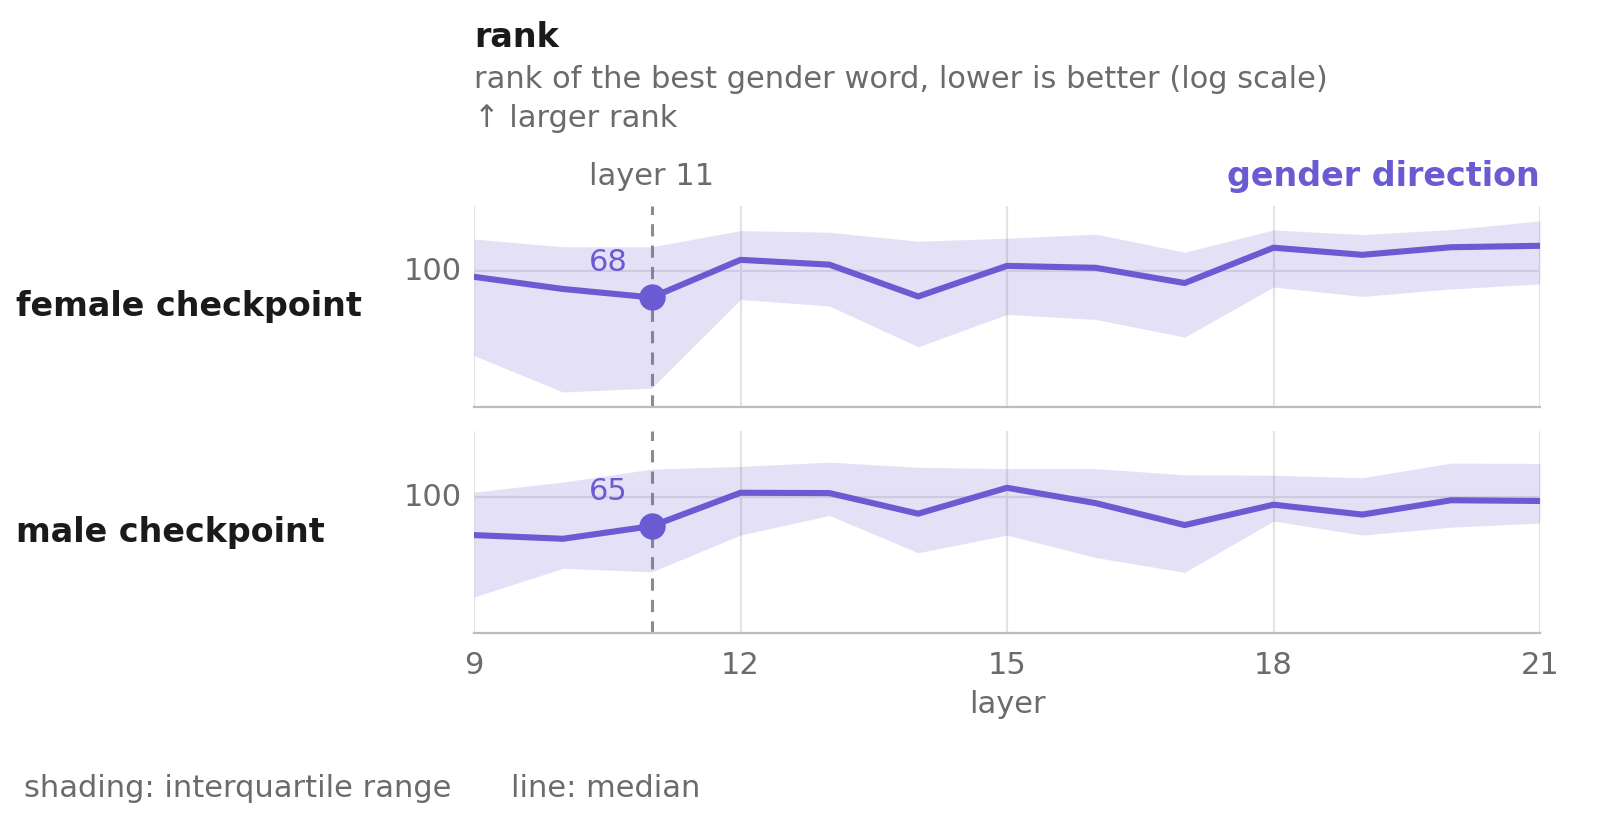
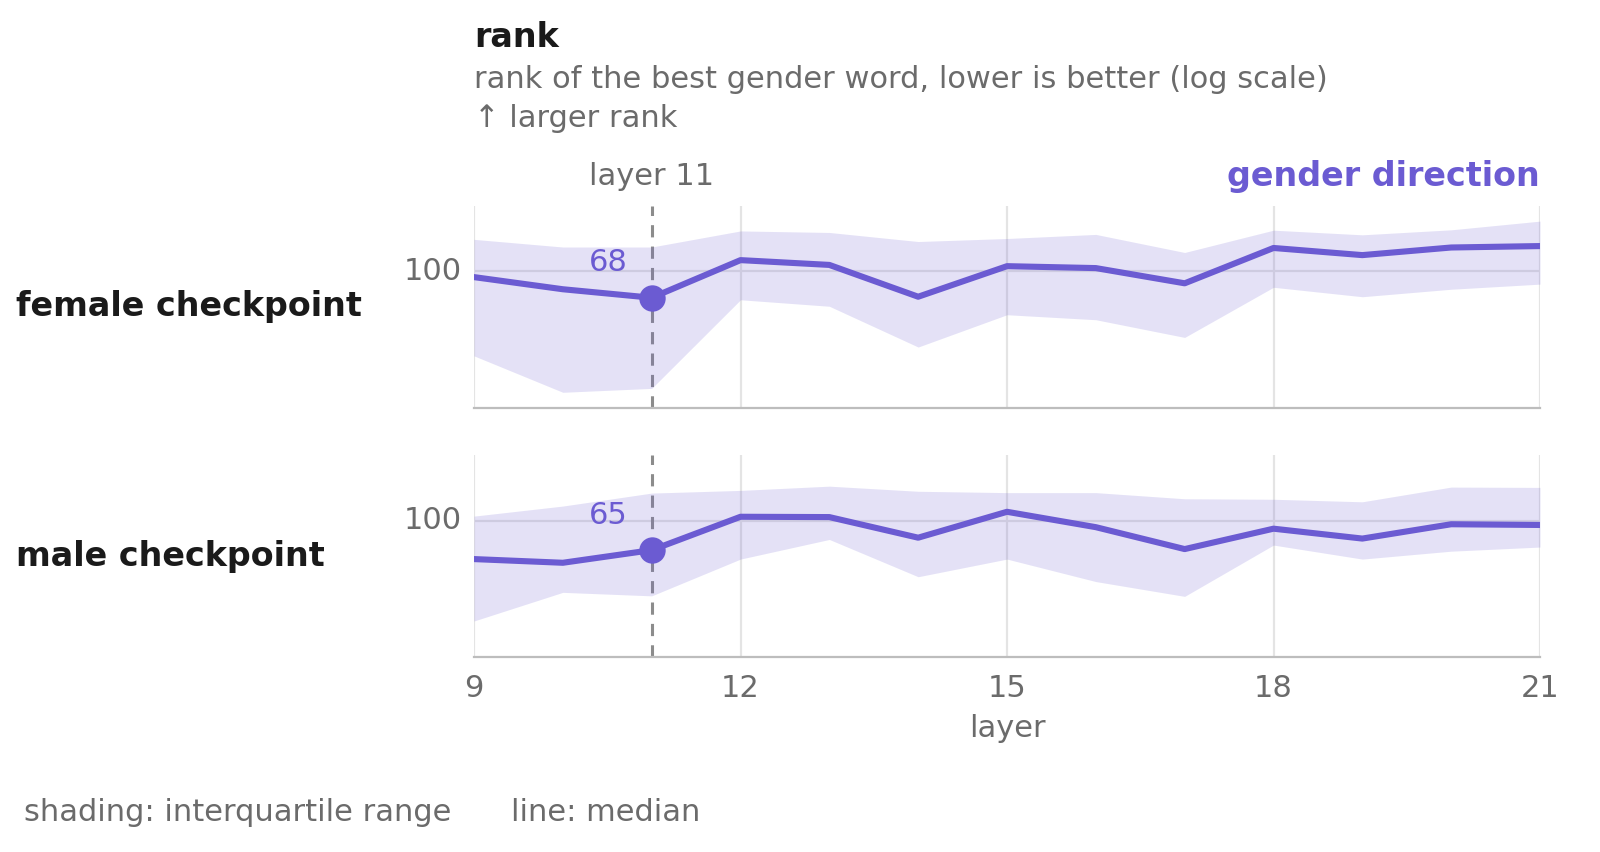
Pin styles-plot v0.1.10
Changed PNGs: the five figures with stacked panels (layer_rank_sweep,
gender_word_rank_sweep, bimodal_breakdown_combined, projection_direct_vs_standard,
projection_separability_layer11_direct) get a tick label's height between
panels. No number or label changed; every other PNG is byte-identical.
styles-plot check and check_refs pass.

diff --git a/DEVELOPER.md b/DEVELOPER.md
@@ -93,7 +93,7 @@ make snapshot && ... && make snapshot-diff   # prove a refactor changes no image
   their `_meta` says so and records no inputs. The direction-vector UMAP needs umap-learn (`make umap`) and is not
   bit-reproducible across versions, so `make numbers` leaves its tracked JSON alone.
 
-styles-plot v0.1.9 features used here: `Distribution(control=...)` (grey strips named in the key), `Sweep(hrules=...)`
+styles-plot v0.1.10 features used here: `Distribution(control=...)` (grey strips named in the key), `Sweep(hrules=...)`
 (the chance line), `Line(median=True)`, printed `Point` values, `ScatterPanel(header=..., numbers=...)` (PCA variance
 shares). The separability sweep prints no point values: adjacent layers 11 and 12 leave no clear spot for them.
 
